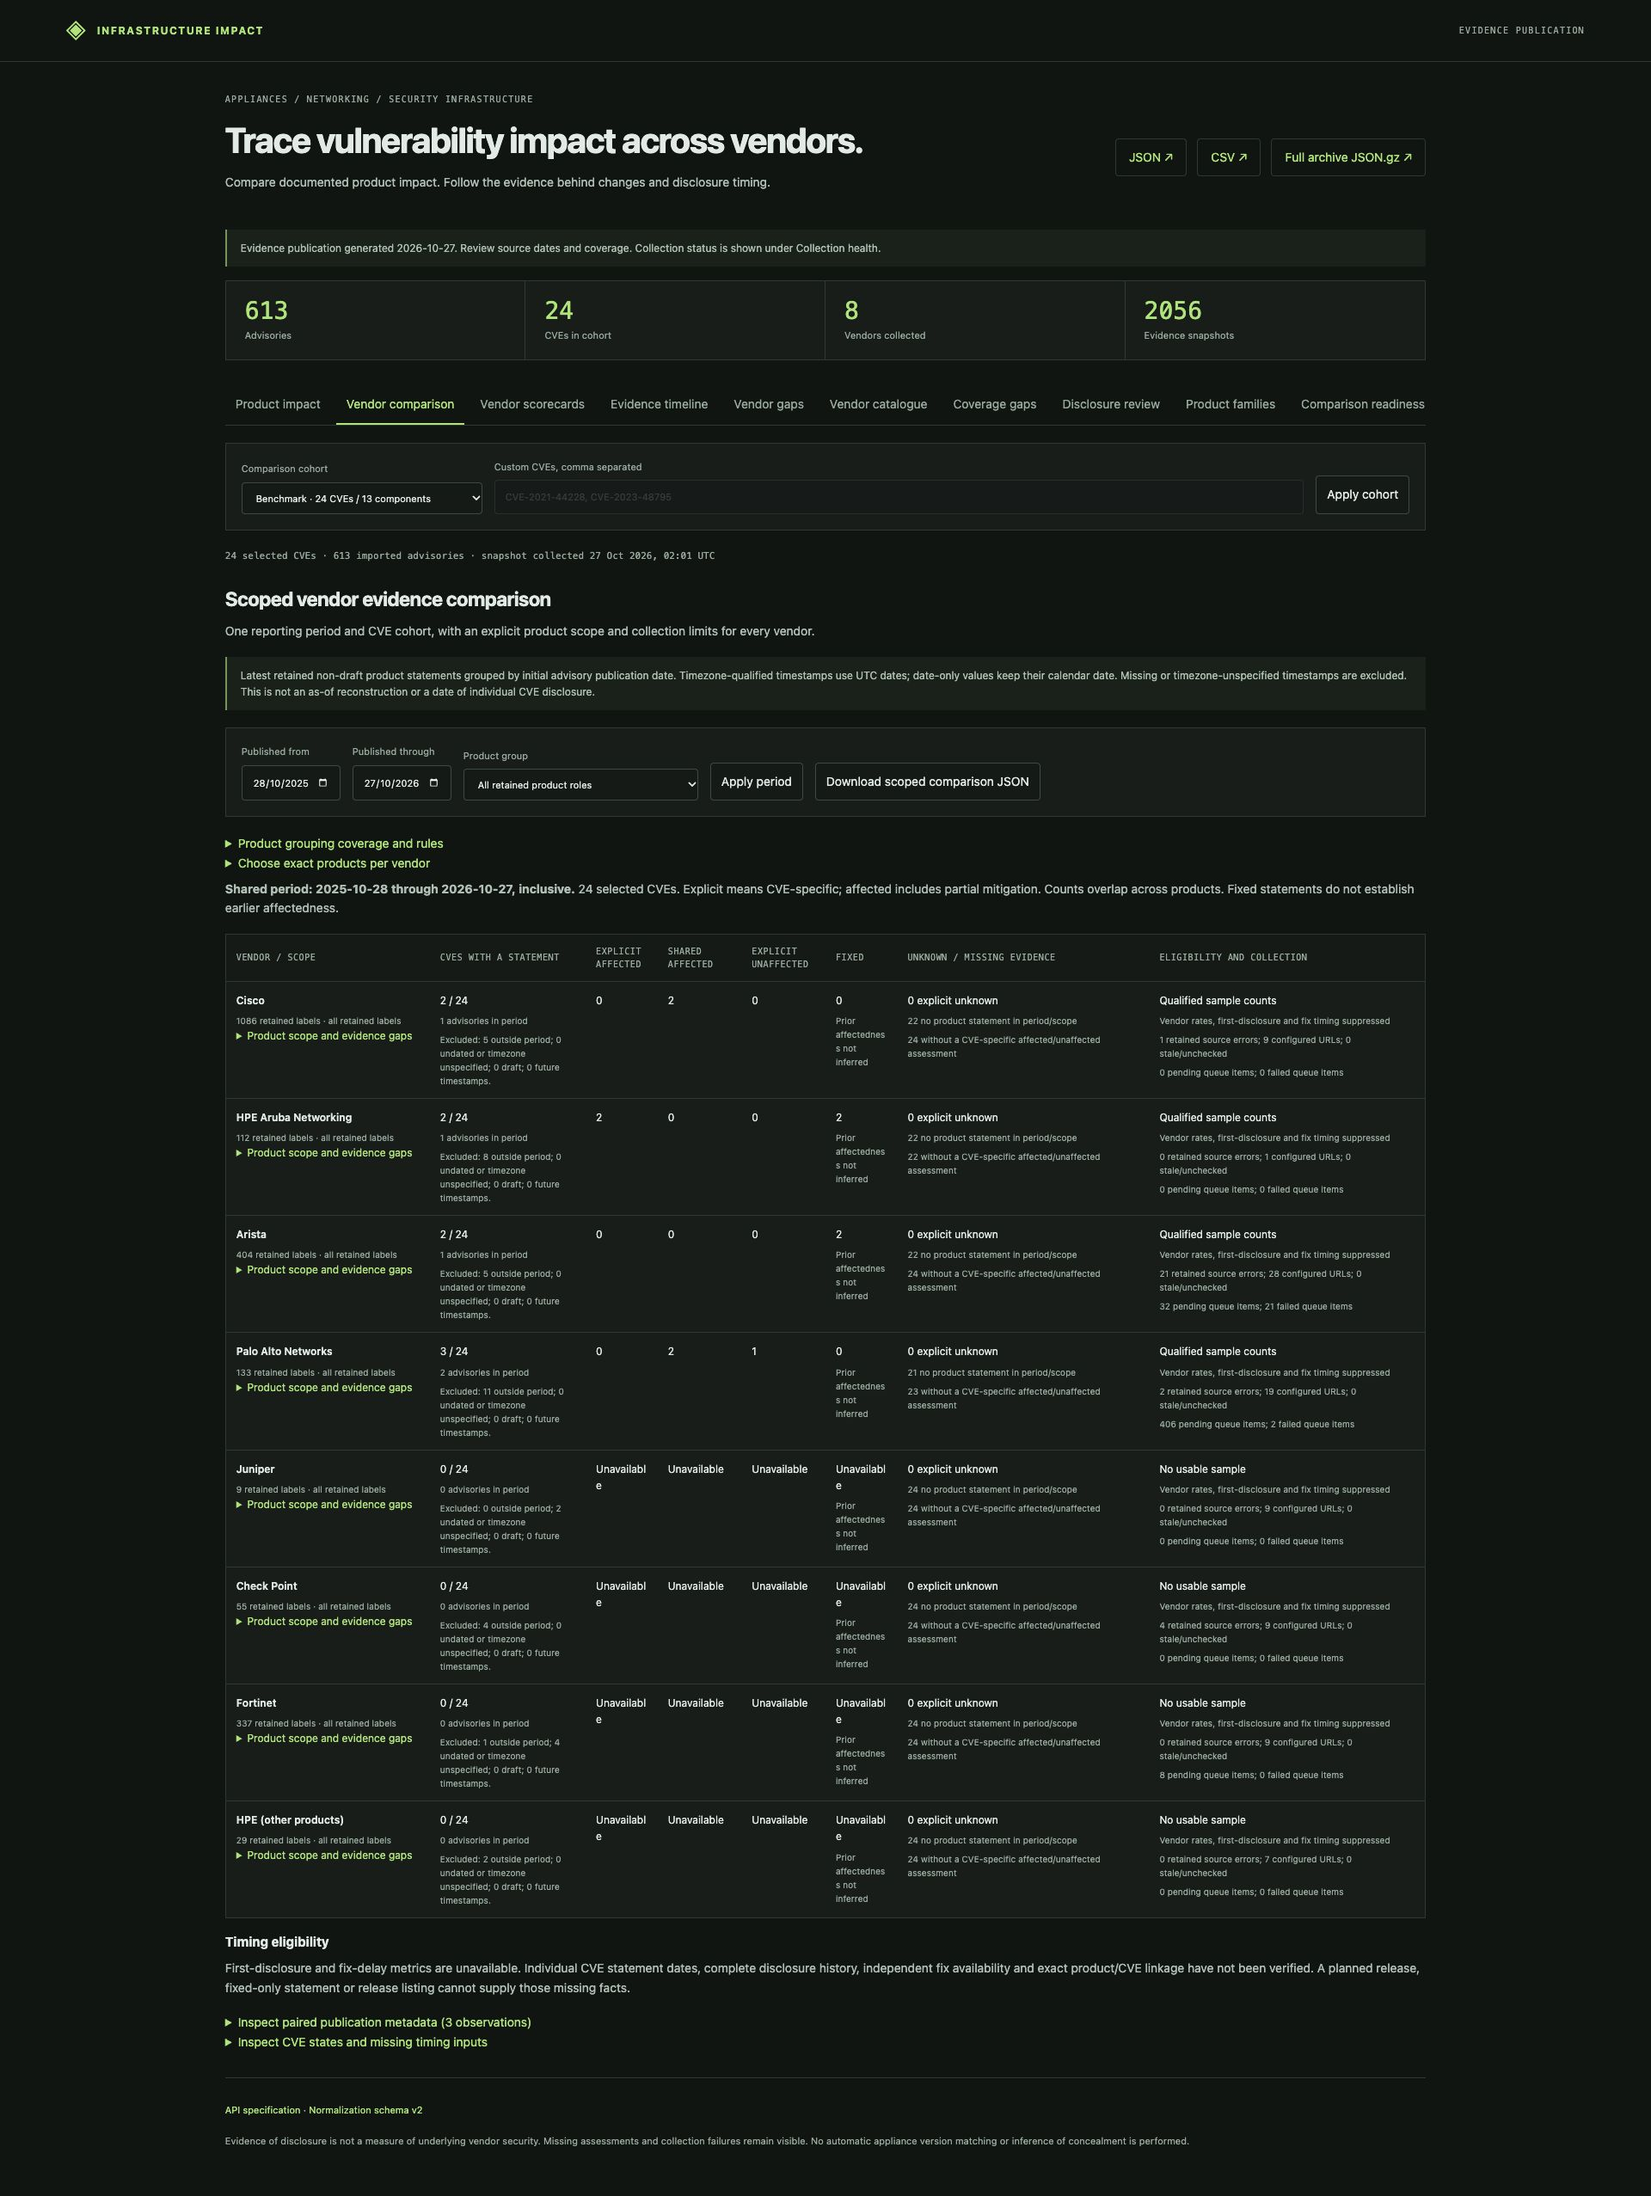
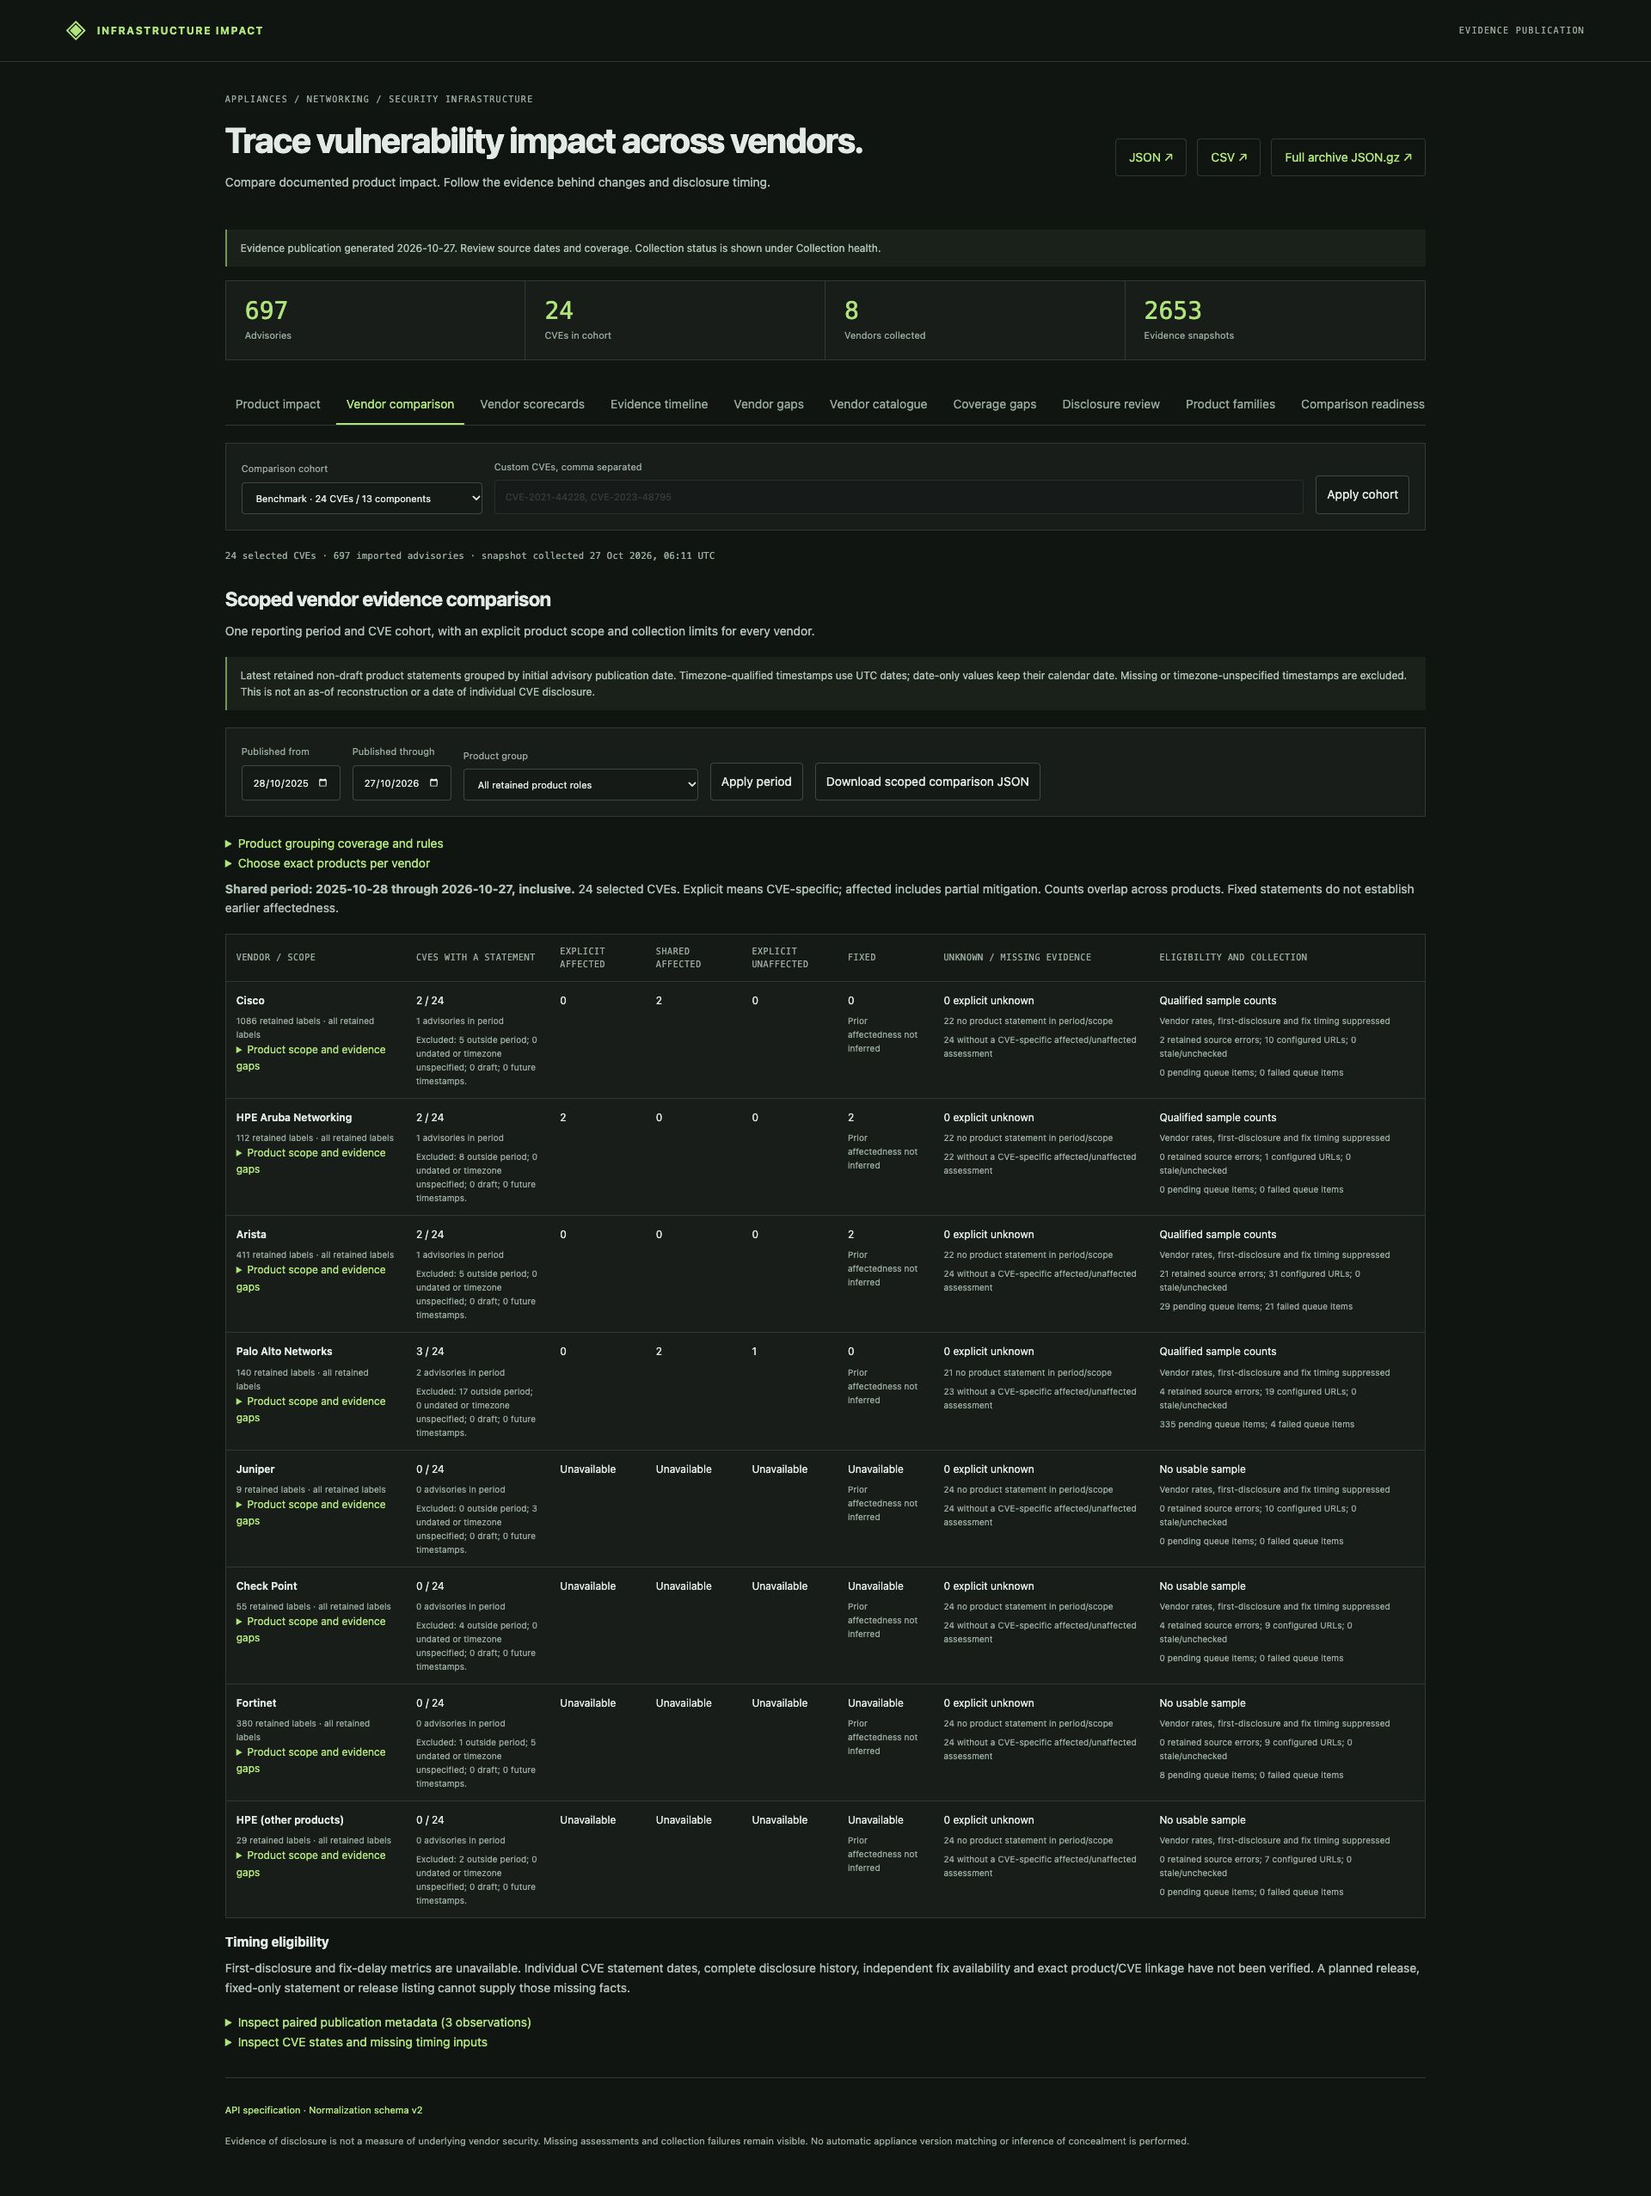
Refresh the public app screenshot for the 0.3.0 research preview

diff --git a/docs/images/README.md b/docs/images/README.md
@@ -2,8 +2,8 @@
 
 `vendor-comparison.jpg` is an unaltered full-page browser capture of the public
 Infrastructure Impact web app, taken on 27 October 2026. It shows eight vendors,
-24 selected benchmark CVEs and 613 retained advisories in publication
-`cd288231309e4f8a8c6da68d9f5ff24e` (generated 02:01 UTC).
+24 selected benchmark CVEs and 697 retained advisories in publication
+`9c1d338eb10a4b939f45bfe2f29d8b91` (generated 06:11 UTC).
 
 The selected publication window is 28 October 2025 through 27 October 2026.
 The full screenshot includes source gaps, qualified sample counts, missing timing

diff --git a/CHANGELOG.md b/CHANGELOG.md
@@ -1,6 +1,9 @@
 # Changelog
 
-## Overnight source evidence — 2026-10-27
+## 0.3.0 research preview — 2026-10-27
+
+First tagged source preview. Source coverage remains bounded, independent human
+review is pending, and vendor rates and rankings remain suppressed.
 
 - Pin direct workflow actions to verified upstream commits, review action updates weekly, synchronize the deployment template, update Pages actions to Node 24, and verify that the declared static marker is actually published.
 
